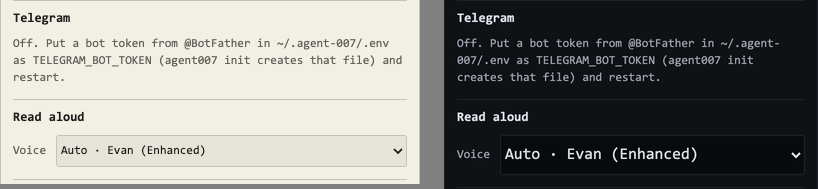
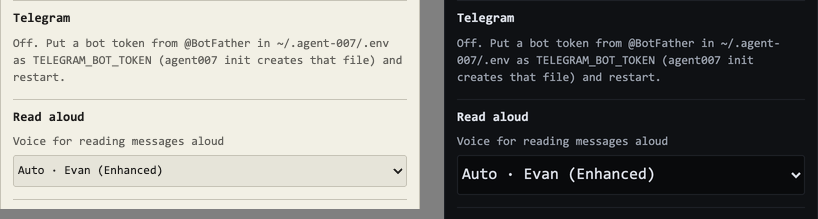
feat: label the read-aloud speaker, confirm each tap with a toast
"Read aloud" beside the icon when the tab is 720px or wider; name and
tooltip "Read new messages aloud"; each tap shows "Read aloud: on/off".
Settings labels the picker "Voice for reading messages aloud".

diff --git a/test/client-waiting.test.js b/test/client-waiting.test.js
@@ -532,20 +532,42 @@ describe('read aloud and dictation in the tab', () => {
     stopReading();
   });
 
-  it('the bar\'s speaker is the read-aloud switch itself: one tap on, one off, accent and labelled', () => {
+  it('the bar\'s speaker is the read-aloud switch itself: one tap on, one off, named, labelled and accent', () => {
     const toggle = document.getElementById('chat-autoread');
     expect(toggle.closest('#chat-head')).not.toBeNull();
-    expect(toggle.hasAttribute('popovertarget')).toBe(false);
     expect(document.querySelector('[popover]')).toBeNull();
-    expect([toggle.type, toggle.querySelector('svg') !== null]).toEqual(['button', true]);
-    expect([toggle.getAttribute('aria-pressed'), toggle.getAttribute('aria-label'), toggle.classList.contains('on')]).toEqual(['false', 'Read aloud: off', false]);
+    expect([toggle.type, toggle.querySelector('svg') !== null, toggle.querySelector('.chat-autoread-label').textContent]).toEqual(['button', true, 'Read aloud']);
+    expect([toggle.getAttribute('aria-label'), toggle.title]).toEqual(['Read new messages aloud', 'Read new messages aloud']);
+    expect([toggle.getAttribute('aria-pressed'), toggle.classList.contains('on')]).toEqual(['false', false]);
     toggle.click();
-    expect([toggle.getAttribute('aria-pressed'), toggle.getAttribute('aria-label'), toggle.classList.contains('on')]).toEqual(['true', 'Read aloud: on', true]);
-    expect(localStorage.getItem('agent007-read-aloud')).toBe('1');
+    expect([toggle.getAttribute('aria-pressed'), toggle.classList.contains('on'), localStorage.getItem('agent007-read-aloud')]).toEqual(['true', true, '1']);
+    expect(toggle.getAttribute('aria-label')).toBe('Read new messages aloud');   // the name stays; aria-pressed carries the state
     toggle.click();
-    expect([toggle.getAttribute('aria-pressed'), toggle.getAttribute('aria-label'), localStorage.getItem('agent007-read-aloud')]).toEqual(['false', 'Read aloud: off', null]);
+    expect([toggle.getAttribute('aria-pressed'), toggle.classList.contains('on'), localStorage.getItem('agent007-read-aloud')]).toEqual(['false', false, null]);
     // The voice is picked in Settings, not here.
     expect(document.querySelector('#waiting-board select')).toBeNull();
+    // The word shows only where the bar has room.
+    const css = readFileSync('public/style.css', 'utf8');
+    expect(css).toMatch(/@container billion \(max-width: 720px\) \{\s*\.chat-autoread \{[^}]*\}\s*\.chat-autoread-label \{ display: none; \}/);
+  });
+
+  it('each tap on the speaker says the new state in a toast, which goes after a moment', () => {
+    vi.useFakeTimers();
+    try {
+      const note = document.getElementById('chat-toast');
+      expect([note.hidden, note.getAttribute('role')]).toEqual([true, 'status']);
+      renderWaiting();
+      expect(note.hidden).toBe(true);   // a render alone says nothing
+      document.getElementById('chat-autoread').click();
+      expect([note.hidden, note.textContent]).toEqual([false, 'Read aloud: on']);
+      vi.advanceTimersByTime(1000);
+      document.getElementById('chat-autoread').click();
+      expect([note.hidden, note.textContent]).toEqual([false, 'Read aloud: off']);
+      vi.advanceTimersByTime(1500);
+      expect(note.hidden).toBe(false);   // the second tap restarted the clock
+      vi.advanceTimersByTime(400);
+      expect(note.hidden).toBe(true);
+    } finally { vi.useRealTimers(); }
   });
 
   it('the box is not a login field to a password manager', () => {

diff --git a/public/style.css b/public/style.css
@@ -701,9 +701,8 @@ body {
 .telegram-settings[hidden] { display: none; }
 .voice-settings { border-top: 1px solid var(--border); margin-top: 12px; padding-top: 10px; }
 .voice-settings[hidden] { display: none; }
-.settings-voice { display: flex; align-items: center; gap: 10px; color: var(--text-muted); }
+.settings-voice { display: flex; flex-direction: column; gap: 6px; color: var(--text-muted); }
 .settings-voice-pick {
-  flex: 1;
   min-width: 0;
   min-height: 32px;
   font: inherit;
@@ -2019,12 +2018,38 @@ a.chat-file-chip:hover { border-color: var(--accent); }
   cursor: pointer;
   white-space: nowrap;
 }
-.chat-autoread { width: var(--bar-control-h); padding: 0; border-radius: 50%; }
+/* Icon and "Read aloud" where the bar has room; icon only in a narrow pane. */
+.chat-autoread { padding: 0 12px 0 9px; }
+@container billion (max-width: 720px) {
+  .chat-autoread { width: var(--bar-control-h); padding: 0; border-radius: 50%; }
+  .chat-autoread-label { display: none; }
+}
 .chat-autoread:hover, .chat-stop-reading:hover { color: var(--text); border-color: var(--border); }
 .chat-autoread.on { color: var(--accent); background: color-mix(in srgb, var(--accent) 14%, transparent); border-color: color-mix(in srgb, var(--accent) 40%, var(--border)); }
 .chat-autoread:focus-visible, .chat-resume:focus-visible, .chat-stop-reading:focus-visible { outline: 2px solid var(--accent); outline-offset: 1px; }
 .chat-resume { color: var(--accent-contrast); background: var(--accent); font-weight: 700; }
 .chat-resume[hidden], .chat-stop-reading[hidden] { display: none; }
+/* What a tap just did ("Read aloud: on"), at the top of the thread. */
+.chat-toast {
+  position: absolute;
+  top: 10px;
+  left: 50%;
+  transform: translateX(-50%);
+  z-index: 3;
+  padding: 5px 12px;
+  font-size: 12px;
+  white-space: nowrap;
+  color: var(--text);
+  background: var(--bg-panel);
+  border: 1px solid var(--border);
+  border-radius: 999px;
+  box-shadow: 0 4px 14px rgba(0, 0, 0, 0.22);
+  pointer-events: none;
+  animation: chat-toast-in 0.16s ease-out;
+}
+.chat-toast[hidden] { display: none; }
+@keyframes chat-toast-in { from { opacity: 0; transform: translate(-50%, -4px); } }
+@media (prefers-reduced-motion: reduce) { .chat-toast { animation: none; } }
 .chat-meta-row { display: flex; align-items: center; justify-content: space-between; gap: 8px; }
 .chat-speak {
   display: inline-flex;

diff --git a/public/modules/waiting.js b/public/modules/waiting.js
@@ -554,8 +554,6 @@ function renderReadHead() {
   const on = autoReadOn();
   toggle.setAttribute('aria-pressed', String(on));
   toggle.classList.toggle('on', on);
-  toggle.setAttribute('aria-label', `Read aloud: ${on ? 'on' : 'off'}`);
-  toggle.title = on ? 'Reading new messages aloud: tap to stop' : 'Read each new message from Billion aloud as it arrives, while this tab is open';
   const resume = document.getElementById('chat-resume');
   const waiting = needsResume();
   resume.hidden = !waiting;
@@ -616,6 +614,17 @@ export const CHAT_VOICE = {
 
 export const toggleChatVoice = () => toggleVoice(CHAT_VOICE);
 
+let toastTimer = null;
+const TOAST_MS = 1800;
+function toast(text) {
+  const note = document.getElementById('chat-toast');
+  if (!note) return;
+  note.textContent = text;
+  note.hidden = false;
+  clearTimeout(toastTimer);
+  toastTimer = setTimeout(() => { note.hidden = true; }, TOAST_MS);
+}
+
 // The Chat view's end of the bar: the open questions chip, Resume reading
 // and Stop when they apply, and the speaker that turns reading new messages
 // aloud on and off. Built once.
@@ -638,8 +647,16 @@ function readHead() {
   const toggle = el('button', 'chat-autoread billion-bar-control');
   toggle.id = 'chat-autoread';
   toggle.type = 'button';
+  // Named for what it does; aria-pressed says whether it is on. The word
+  // shows beside the icon where the bar has room (style.css).
+  toggle.setAttribute('aria-label', 'Read new messages aloud');
+  toggle.title = 'Read new messages aloud';
   toggle.innerHTML = SPEAKER_SVG;
-  toggle.onclick = () => setAutoRead(!autoReadOn());
+  toggle.appendChild(el('span', 'chat-autoread-label', 'Read aloud'));
+  toggle.onclick = () => {
+    setAutoRead(!autoReadOn());
+    toast(`Read aloud: ${autoReadOn() ? 'on' : 'off'}`);
+  };
   head.append(resume, stop, toggle);
   return head;
 }
@@ -673,6 +690,13 @@ function shell() {
         setQuestionsOpen(false);
       }
     });
+
+    // A short-lived line over the thread saying what a tap just did.
+    const note = el('div', 'chat-toast');
+    note.id = 'chat-toast';
+    note.setAttribute('role', 'status');
+    note.hidden = true;
+    body.appendChild(note);
 
     const jump = el('button', 'chat-jump', 'New messages ↓');
     jump.id = 'chat-jump';

diff --git a/test/client-settings-voice.test.js b/test/client-settings-voice.test.js
@@ -21,11 +21,11 @@ beforeEach(() => {
 });
 
 describe('the Settings voice row', () => {
-  it('sits in the Settings window under "Read aloud", a labelled select that is no login field', () => {
+  it('sits in the Settings window under "Read aloud", a select labelled "Voice for reading messages aloud" that is no login field', () => {
     expect(html.indexOf('id="voice-settings"')).toBeGreaterThan(html.indexOf('id="settings-panel"'));
     expect(html.indexOf('id="voice-settings"')).toBeLessThan(html.indexOf('id="account-panel"'));
     expect(box().querySelector('h2').textContent).toBe('Read aloud');
-    expect(pick().closest('label').textContent).toBe('Voice');
+    expect(pick().closest('label').textContent).toBe('Voice for reading messages aloud');
     expect(pick().getAttribute('autocomplete')).toBe('off');
     const css = readFileSync('public/style.css', 'utf8');
     expect(css).toMatch(/@media \(max-width: 700px\) \{ \.settings-voice-pick \{ font-size: 16px;/);

diff --git a/public/index.html b/public/index.html
@@ -129,7 +129,7 @@
                hidden until the browser offers a choice of voices. -->
           <div class="voice-settings" id="voice-settings" hidden>
             <div class="settings-section-head"><h2>Read aloud</h2></div>
-            <label class="settings-voice"><span>Voice</span><select id="voice-pick" class="settings-voice-pick" autocomplete="off" data-1p-ignore="true" data-lpignore="true" data-bwignore="true"></select></label>
+            <label class="settings-voice"><span>Voice for reading messages aloud</span><select id="voice-pick" class="settings-voice-pick" autocomplete="off" data-1p-ignore="true" data-lpignore="true" data-bwignore="true"></select></label>
           </div>
           <!-- Claude account rotation; hidden with user accounts on. -->
           <div class="account-panel" id="account-panel" hidden>

diff --git a/docs/FEATURES.md b/docs/FEATURES.md
@@ -6,7 +6,7 @@ The full tour. Agent 007 grows with how much you hand off: web terminals for you
 - **Billion comes to you twice a day** -- Billion's questions come in two rounds a day, 08:30 and 15:30 your time (`rounds`, `roundMaxPerProject` and `roundsTimeZone` in `~/.agent-007/config.json`; `rounds: []` turns it off). `notify_owner` queues a question under its project; at each round the server shows you at most two per project, the most important first (blocking, normal, low, then Billion's `rank`, then newest), with Billion's brief on top, and sends one Telegram message for the whole round. Whatever the previous round left unanswered is consolidated: kept in *Earlier*, off your list, and Billion is told so it re-asks only what is still in a project's top two. Only a blocking question (or `telegram: true`) reaches you between rounds. Until the first round comes due a new install's questions show at once, so its introduction and first cycle never wait for 08:30. Once a round has been released the Billion tab opens on **This round** (before that, on **Chat**, unless you picked one) (one section per project, tap choices and a reply box on each card, answered cards folding in place, "3 of 7 done"); the chat moved to a **Chat** view beside it. A status line on top says what Billion is doing ("Working: reviewing PR #120 · 3 workers running · next round 3:30 pm"; Billion's `set_status`, and "Billion is working on your message…" until it replies). Every item in a round has a number: tap *Done* or type `1d` (`1d 3d` for several) and Billion reads `[Owner via app] item 1 done`. *Start the round now* (or typing "start the round now") releases the next round early. What you type is never held for a round: each pending message has its own progress box of concise `set_status` summaries, with only the oldest unanswered message receiving updates. When its reply arrives, those summaries fold into closed **Work details** beneath the answer; tap to expand them. Progress never reads terminal output, and reply bindings and summaries survive reconnects and server restarts. On the first start with rounds, open questions other than blocking ones are consolidated. See [BILLION.md](BILLION.md#rounds).
 - **Talk to Billion in the Billion tab** -- The Billion tab's **Chat** view is a chat thread with Billion; the tab is the one a page opens on (it cannot be closed). It is the web twin of its Telegram channel, so the conversation is not buried under the board notices and worker messages in its terminal (which stays the work log). Type in the box at the bottom (Enter sends) and it reaches Billion as `[Owner via app] ...`; a message starting with `/` (`/model opus`) runs as a slash command in Billion's terminal instead, with its screen shown back in the thread (`//` sends a literal `/`; [details](BILLION.md#telegram)); Billion's `tell_owner` replies and questions show as bubbles on the left, your messages on the right, Telegram ones included (voice notes as their transcript, marked *(voice)*). Typing is always a plain message: to answer a question by typing, tap *Reply* under it and the box says "Answers Q3". *Undo* takes an answer back for a minute after, and Billion can reopen a question with `reopen_question`. Open questions also pin to a strip at the top ("3 open questions ▾"); tap it, or the tab's badge, for the **Open questions** panel: one section per project (Billion passes `project` to `notify_owner`, or the server reads it off a GitHub URL or repo name in the question, else `general`), or, with the *by project | by type* switch, one per type (engineering, marketing, outreach, finance, product, admin, other; Billion passes `type`, or the server reads it off the text). Sections start closed, their header showing the count and "!" when a blocking question is inside; the grouping and which sections are open are kept per browser. Each row is answered in place with its choices or *Reply*, and its text jumping to the bubble. × or Esc closes it; on a phone it fills the screen. The thread, the panel and the Jobs tab's columns update in place when something changes, so a refresh never moves you: where you have scrolled to stays put, and the thread only follows new messages while you are already at the bottom (otherwise *New messages ↓* appears). The last 500 messages are kept in `~/.agent-007/chat.json`, with open questions and unanswered owner requests retained beyond that cap until answered.
 - **Show Billion a screenshot or a file** -- In the Billion tab, paste an image (Cmd/Ctrl+V), drop files anywhere on the tab, or pick them with the paperclip beside the mic. They show as chips above the box (a thumbnail for an image, name and size otherwise, × to remove) and go with the next Send; files alone, with no text, send too. They are saved owner-only in `~/.agent-007/chat-files/<message id>/`, and the turn Billion gets ends with their absolute paths, `[Owner via app] <text> (attached: /path/a.png, /path/b.pdf)` (an answer the same way, `[Owner via app] Q3: ...`), so it reads them with its file tools. The limits are the job form's: 10MB a file, 20 files and 50MB a message. Your bubble keeps them as thumbnails that open full size and download links, served only from that folder and only while user accounts are off (the chat is the owner's alone); they go when the message leaves chat history; unanswered owner requests stay past the 500-message cap. Treat a file from outside like pasted instructions: Billion acts on what it reads.
-- **Read aloud and dictate in the Billion tab** -- A speaker button on every message from Billion reads it aloud with the browser's own voices (free, nothing leaves the browser): markdown dropped, links read as "link", Q51 as "question 51", a question's choices at the end, long messages spoken sentence by sentence; tap again to stop, and pick the voice in Settings (the gear, under *Read aloud*). Tap the speaker in the bar at the top of the tab to turn on *Read new messages aloud*, and each new message is spoken as it arrives while the tab is showing (after a reload, one tap on *Resume reading*). The mic beside the text box dictates a reply into the box, greyed while it is heard, and never sends it for you; in "Answers Q3" mode it answers Q3 like typed text. Locked-screen playback on a phone is not reliable in mobile browsers; Telegram voice notes cover that. See [BILLION.md](BILLION.md#read-aloud-and-dictation-in-the-tab).
+- **Read aloud and dictate in the Billion tab** -- A speaker button on every message from Billion reads it aloud with the browser's own voices (free, nothing leaves the browser): markdown dropped, links read as "link", Q51 as "question 51", a question's choices at the end, long messages spoken sentence by sentence; tap again to stop, and pick the voice in Settings (the gear, under *Read aloud*). Tap *Read aloud* (the speaker) in the bar at the top of the tab to turn on reading new messages aloud, and each new message is spoken as it arrives while the tab is showing (after a reload, one tap on *Resume reading*). The mic beside the text box dictates a reply into the box, greyed while it is heard, and never sends it for you; in "Answers Q3" mode it answers Q3 like typed text. Locked-screen playback on a phone is not reliable in mobile browsers; Telegram voice notes cover that. See [BILLION.md](BILLION.md#read-aloud-and-dictation-in-the-tab).
 - **Talk to Billion** -- A hands-free voice conversation with the same Billion in the Billion tab's Chat view: tap *Talk to Billion*, allow the mic, and speak. Each utterance is detected in the browser (Silero VAD, served by the app), transcribed on your machine by whisper.cpp and sent once as a voice turn; Billion's reply to that turn is spoken by the same macOS `say` voice as Telegram, then it listens again. Talk over it to interrupt; Listening, Thinking, Speaking, Muted and Disconnected states with Mute and End; the chat thread is the transcript. Replies to typed or Telegram messages are never spoken as a voice turn's answer. No audio leaves the machine; without whisper.cpp or `say` it falls back to the browser's speech and says so. See [BILLION.md](BILLION.md#talk-to-billion).
 - **Billion asks you on your phone** -- When Billion needs you, its `notify_owner` tool puts the question, numbered (Q3), in the **Billion** tab next to Jobs (a chat bubble and "Billion", with a badge counting open questions; the same in a phone's bottom bar) and, with `TELEGRAM_BOT_TOKEN` and `TELEGRAM_CHAT_ID` set, sends it to you through a Telegram bot when it is **blocking** (or Billion passes `telegram: true` for a super urgent one); normal and low questions wait in the tab. A question can carry 2 to 5 `choices` with one `recommended`: tap one under the question in the tab or its Telegram button, or type an answer in the tab's text box or as a Telegram reply to the question. It reaches Billion as `[Owner via app] Q3: ...` or `[Owner via Telegram] Q3: ...`, and the question is marked answered in both places (the Telegram message is edited to show the answer). Each question carries an `urgency`: open ones list **blocking** first (marked `! Q3`: a worker or merge is waiting, and the Telegram message starts with `! `), then normal, then **low** (number dimmed: optional), oldest first within each. Answered ones stay in the thread with "you answered: ..."; *Dismiss* closes one; everything survives restarts. Anything else you send the bot is typed into Billion's terminal as `[Owner via Telegram] ...`. Telegram buzzes for blocking questions only, and Billion's `tell_owner` replies reach it only while you are talking on the phone: after a message from the tab they stay in the tab ([details](BILLION.md#telegram)). The bot is Billion's own, so its messages carry no name: `Q3: ...`, `! Q3: ...`, or a reply's text alone. Only your chat is accepted. Setup in three steps is in [BILLION.md](BILLION.md#telegram). **Voice both ways, all local**: on macOS with ffmpeg, Billion's messages can arrive as voice notes (spoken by `say`, with the text as caption), and your voice notes are transcribed on your machine by whisper.cpp and reach Billion as `[Owner via Telegram, voice] ...`. By default Billion answers in the mode you last used (`TELEGRAM_VOICE`); see [Voice](BILLION.md#voice).
 - **Claude account rotation** -- In **Settings → Auto-switch accounts**, click **Find logged-in accounts** to start, or add a config folder. Automatic rotation turns on by default once two accounts have been added. Choose the included accounts and their order, then save changes. A saved off setting stays off when accounts are added or rediscovered; recovery also keeps rotation off. A hard limit on Billion or a managed Claude worker selects the next eligible login. Only authentication and account-specific metadata change: the current Claude config directory retains all settings, history, plugins, skills, MCP servers and trust settings. The app blocks new Claude spawns, stops its Claude sessions and tool processes, saves the outgoing account's latest refresh token, activates the next login, and resumes each exact conversation with its startup options. Unsupported custom startup flags prevent the switch instead of silently losing options. The scan refuses a switch while it detects another Claude process outside the app; do not launch another during a switch or use the source login folders concurrently. Saved credentials live in owner-only `account-logins/` files under the app config directory (POSIX 0600 files, 0700 directory; Windows uses the user's filesystem ACLs). Account order, active identity, limits and a recovery journal persist in `account-rotation.json`; secrets never reach the browser or logs. Discovery does not overwrite maintained credentials with a stale source copy. Failed activation restores the previous login; an interrupted or failed rollback blocks further switches and offers **Restore previous login**, which turns automatic rotation off. Explicit relative or ISO reset times are respected; ambiguous local clock labels use a 30-minute retry delay. Exhausted workers wait. Billion may fall back to Codex when enabled, subject to `BILLION_AUTO_SWITCH` and the existing CLI-switch cooldown. Codex-to-Claude first selects an eligible login too. Cross-CLI handovers export up to 80 recent dialogue/tool entries, about 96,000 characters total and 8,000 per entry, with explicit truncation notes and a pointer to the original transcript. Private reasoning is excluded. Billion's own Git directory remains the source of persistent state and pending work. Account rotation itself needs no handover. This replaces the permanent-move UI; old backups remain recoverable. Controls remain owner-only, hidden when app user accounts are enabled or Billion is off.

diff --git a/changelog.d/bill10-billion-tab-the-top-of-the-chat-view-is.md b/changelog.d/bill10-billion-tab-the-top-of-the-chat-view-is.md
@@ -3,4 +3,4 @@ bump: minor
 ---
 ### Changed
 
-- **The Billion tab's Chat view starts near the top.** The status line, the Briefing/Chat tabs, the read-aloud row and the open questions strip were four bars before the first message; they are now one bar. Briefing | Chat is a segmented control beside the status line, the open questions are one chip ("2 open questions", "!" when one is blocking) that opens the panel, and a speaker button is the "Read new messages aloud" switch (one tap on, one off). The voice picker moved to Settings, under "Read aloud". On a phone, or a narrow pane, the status line is a quiet line under the controls, and the chat gets back about 130px.
+- **The Billion tab's Chat view starts near the top.** The status line, the Briefing/Chat tabs, the read-aloud row and the open questions strip were four bars before the first message; they are now one bar. Briefing | Chat is a segmented control beside the status line, the open questions are one chip ("2 open questions", "!" when one is blocking) that opens the panel, and a speaker button labelled "Read aloud" (icon only on narrow panes) is the "Read new messages aloud" switch: one tap on, one off, with a "Read aloud: on/off" toast. The voice picker moved to Settings: "Voice for reading messages aloud", under "Read aloud". On a phone, or a narrow pane, the status line is a quiet line under the controls, and the chat gets back about 130px.

diff --git a/DESIGN.md b/DESIGN.md
@@ -1025,11 +1025,15 @@ terminal panel on this tab.
 - The bar's end (`.chat-head`) holds the chip, *Resume reading (N new)* as an
   accent pill after a reload, *Stop* while reading, and a round speaker
   button (`#chat-autoread`) that is the *read new messages aloud* switch
-  itself: one tap on, one off, `aria-pressed` and "Read aloud: on/off",
-  accent icon on a 14% accent tint while on.
+  itself: one tap on, one off. Icon plus "Read aloud" when the tab is 720px
+  or wider, icon only (round) below that. Its name and tooltip are "Read new
+  messages aloud" and `aria-pressed` carries the state; accent on a 14%
+  accent tint while on. Each tap shows a toast (`.chat-toast`: a `--bg-panel`
+  pill with a soft shadow, centred at the top of the thread, `role=status`,
+  1.8s) saying "Read aloud: on" or "Read aloud: off".
 - The voice picker lives in Settings (the gear), under its own "Read aloud"
-  head (`.voice-settings`, hairline top border like Telegram's): "Voice" and
-  a select ("Auto · Evan" or a named voice), 32px, 16px type and 40px on
+  head (`.voice-settings`, hairline top border like Telegram's): "Voice for
+  reading messages aloud" above a select ("Auto · Evan" or a named voice), 32px, 16px type and 40px on
   phones so iOS does not zoom. Hidden while the browser offers one voice or
   none.
 - Each message from Billion has a speaker button (`.chat-speak`, 40px hit

diff --git a/docs/BILLION.md b/docs/BILLION.md
@@ -1045,8 +1045,8 @@ runs in the browser (`speechSynthesis` and the Web Speech API's
   so Chrome's cut-off after about 15 seconds of one utterance never truncates
   them. The voice is the best English one the browser lists (en-US first,
   Premium, Enhanced, Siri or Google voices before the rest); the picker in the
-  Settings window (the gear, under *Read aloud*) changes it, and the browser remembers the choice.
-- **Read new messages aloud**: the speaker button in the bar at the top of the tab, one tap on and one off (accent while on; off by
+  Settings window (the gear, *Voice for reading messages aloud* under *Read aloud*) changes it, and the browser remembers the choice.
+- **Read new messages aloud**: the speaker button in the bar at the top of the tab ("Read aloud" beside it when the tab is wide enough), one tap on and one off, with a brief "Read aloud: on" or "Read aloud: off" to confirm (accent while on; off by
   default, remembered by the browser). While it is on and the tab is showing,
   each new message from Billion is spoken as it arrives, one after another,
   never over each other. Browsers let a page speak only after a tap on it: the
